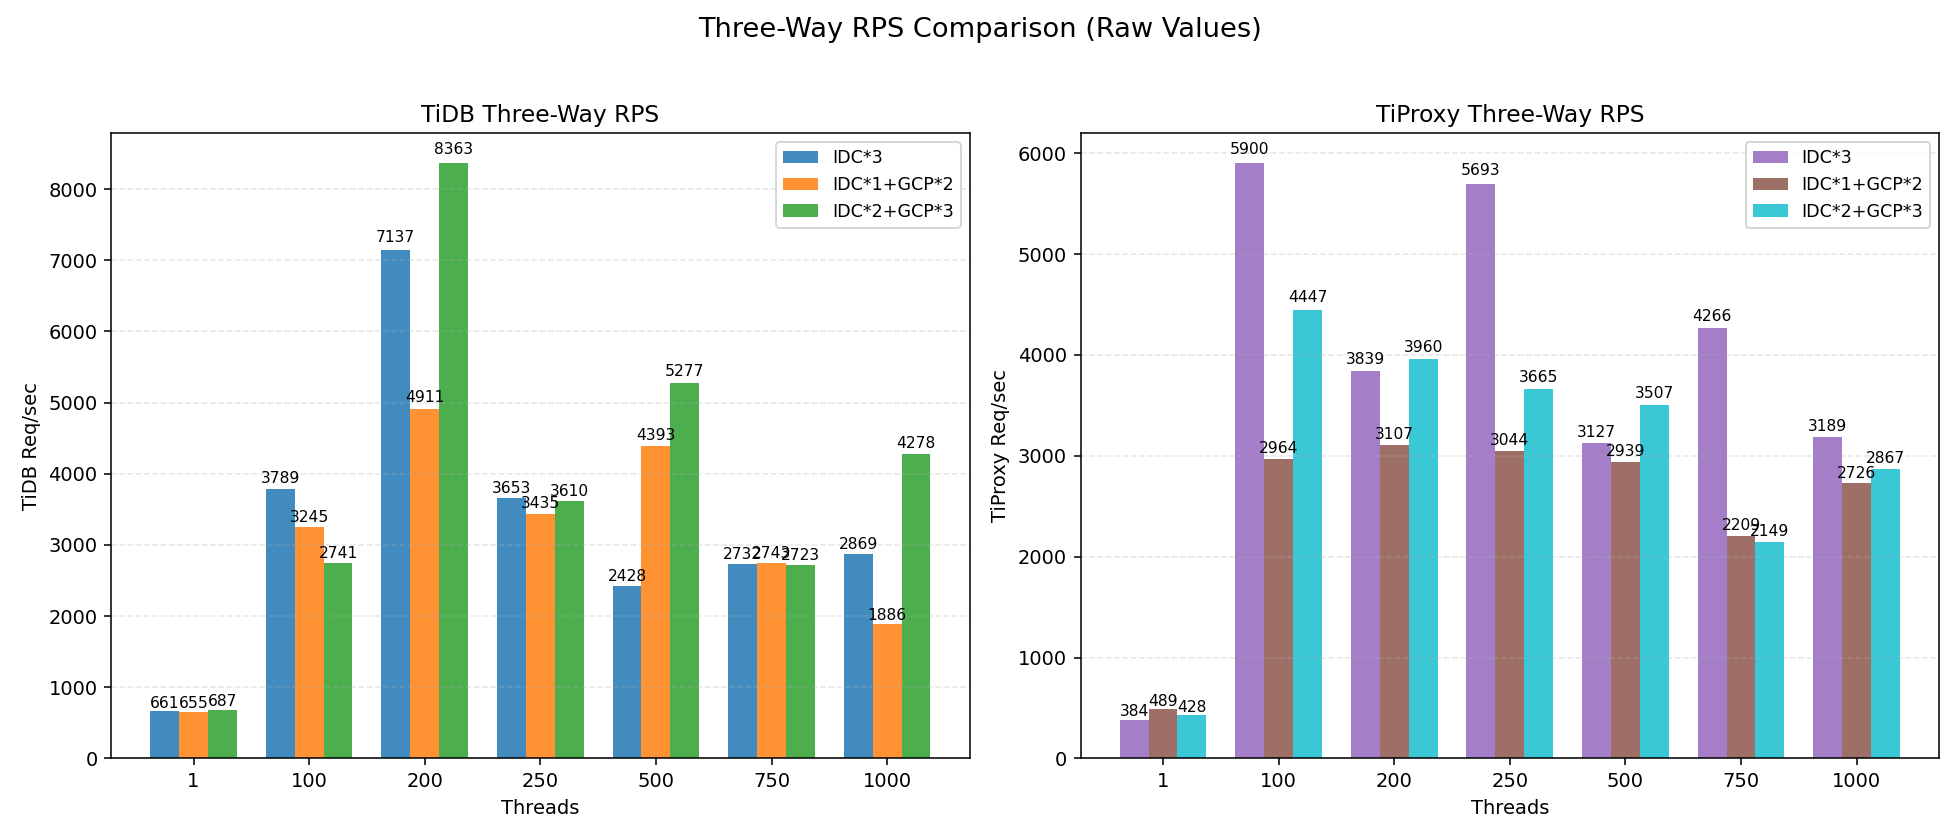
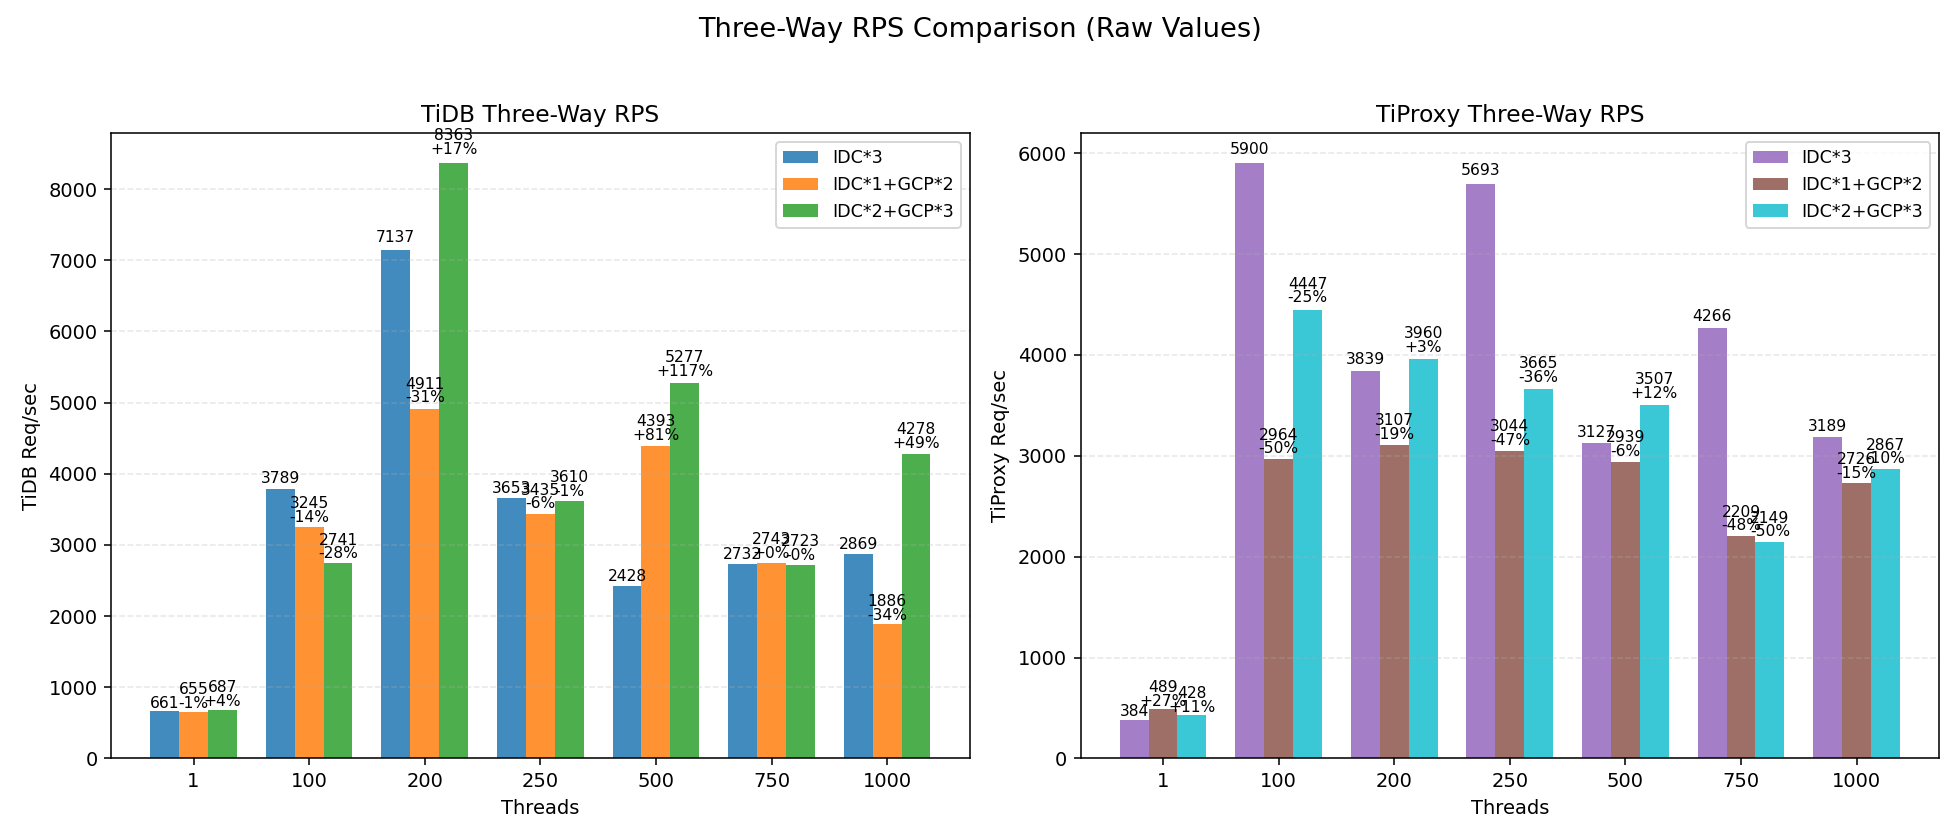
update

diff --git a/tidb/#5-1_#7-5_#10-5_#5-2_#7-6_#10-6_scale_compare.py b/tidb/#5-1_#7-5_#10-5_#5-2_#7-6_#10-6_scale_compare.py
@@ -19,6 +19,7 @@ Data source: values copied directly from individual dataset scripts to maintain 
 from __future__ import annotations
 
 from typing import Dict, List
+import argparse
 
 THREADS = [1, 100, 200, 250, 500, 750, 1000]
 
@@ -57,7 +58,11 @@ def _peak(rps_map: Dict[str, Dict[int, float]]):
     return info
 
 
-def print_summary():
+def pct(new: float, base: float) -> float:
+    return (new / base - 1.0) * 100.0 if base else 0.0
+
+
+def print_summary(show_percent: bool):
     print("Three-way RPS comparison (raw values)")
     print("Threads: " + ", ".join(str(t) for t in THREADS))
 
@@ -100,13 +105,44 @@ def print_summary():
         tip_vals = [TIPROXY_RPS[s][t] for s in SCENARIO_ORDER]
         print(f"  Threads {t:>4}: TiDB max-min Δ={max(tidb_vals)-min(tidb_vals):.2f}; TiProxy max-min Δ={max(tip_vals)-min(tip_vals):.2f}")
 
+    if show_percent:
+        def delta_table(rps_map: Dict[str, Dict[int, float]], title: str):
+            base_label = "IDC*3"
+            base_series = rps_map[base_label]
+            other_labels = [s for s in SCENARIO_ORDER if s != base_label]
+            print(f"\n[{title}] Δ% vs {base_label} (per thread)")
+            header = ["Threads", f"{base_label} RPS"] + [f"{lbl} Δ%" for lbl in other_labels]
+            col_w = [len(h) for h in header]
+            rows = []
+            for t in THREADS:
+                base_v = base_series[t]
+                row = [str(t), f"{base_v:.2f}"]
+                for lbl in other_labels:
+                    dv = pct(rps_map[lbl][t], base_v)
+                    row.append(f"{dv:+.1f}%")
+                rows.append(row)
+                for i, cell in enumerate(row):
+                    if len(cell) > col_w[i]:
+                        col_w[i] = len(cell)
+            def fmt(r):
+                return " | ".join(r[i].rjust(col_w[i]) for i in range(len(r)))
+            print(fmt(header))
+            print("-+-".join('-'*w for w in col_w))
+            for r in rows:
+                print(fmt(r))
+        delta_table(TIDB_RPS, "TiDB")
+        delta_table(TIPROXY_RPS, "TiProxy")
+
     print("\nNotes:")
-    print(" - TiDB shows strong peak at 200 threads in 'IDC*2+GCP*3' (8362.52) exceeding other scenarios' 200T values.")
-    print(" - TiProxy peak positions differ: 'IDC*3' peaks high at 100T (5899.92) while mixed scenarios don't surpass their 100/200T ranges.")
-    print(" - Raw RPS only displayed to align with user preference (no percentage annotations).")
+    print(" - TiDB strong peak at 200T in 'IDC*2+GCP*3' (8362.52) vs 'IDC*3' 200T 7137.34.")
+    print(" - TiProxy peak: 'IDC*3' 100T 5899.92; mixed scenarios do not surpass local peak across threads.")
+    if show_percent:
+        print(" - Δ% tables show per-thread relative gap; positives = higher than baseline, negatives = lower.")
+    else:
+        print(" - Percent difference tables hidden (enable with --show-percent).")
 
 
-def make_plot():  # pragma: no cover
+def make_plot(annot_percent: bool):  # pragma: no cover
     try:
         import matplotlib.pyplot as plt
         import numpy as np
@@ -120,14 +156,23 @@ def make_plot():  # pragma: no cover
     colors_tip = ["#9467bd", "#8c564b", "#17becf"]
     fig, axes = plt.subplots(1, 2, figsize=(14, 6))
 
+    # Baselines for percent annotation
+    tidb_base = [TIDB_RPS['IDC*3'][t] for t in THREADS]
+    tip_base = [TIPROXY_RPS['IDC*3'][t] for t in THREADS]
+
     # TiDB
     ax = axes[0]
     for i, scen in enumerate(SCENARIO_ORDER):
         series = [TIDB_RPS[scen][t] for t in THREADS]
         pos = x + (i - 1) * width
         bars = ax.bar(pos, series, width, label=scen, color=colors_tidb[i], alpha=0.85)
-        for b, val in zip(bars, series):
-            ax.text(b.get_x()+b.get_width()/2, b.get_height()*1.01, f"{val:.0f}", ha='center', va='bottom', fontsize=8)
+        for idx, (b, val) in enumerate(zip(bars, series)):
+            label = f"{val:.0f}"
+            if annot_percent and scen != 'IDC*3':
+                base_v = tidb_base[idx]
+                delta = (val / base_v - 1.0) * 100 if base_v else 0.0
+                label += f"\n{delta:+.0f}%"
+            ax.text(b.get_x()+b.get_width()/2, b.get_height()*1.01, label, ha='center', va='bottom', fontsize=8, linespacing=0.9)
     ax.set_xticks(x)
     ax.set_xticklabels([str(t) for t in THREADS])
     ax.set_xlabel("Threads")
@@ -142,8 +187,13 @@ def make_plot():  # pragma: no cover
         series = [TIPROXY_RPS[scen][t] for t in THREADS]
         pos = x + (i - 1) * width
         bars = ax.bar(pos, series, width, label=scen, color=colors_tip[i], alpha=0.85)
-        for b, val in zip(bars, series):
-            ax.text(b.get_x()+b.get_width()/2, b.get_height()*1.01, f"{val:.0f}", ha='center', va='bottom', fontsize=8)
+        for idx, (b, val) in enumerate(zip(bars, series)):
+            label = f"{val:.0f}"
+            if annot_percent and scen != 'IDC*3':
+                base_v = tip_base[idx]
+                delta = (val / base_v - 1.0) * 100 if base_v else 0.0
+                label += f"\n{delta:+.0f}%"
+            ax.text(b.get_x()+b.get_width()/2, b.get_height()*1.01, label, ha='center', va='bottom', fontsize=8, linespacing=0.9)
     ax.set_xticks(x)
     ax.set_xticklabels([str(t) for t in THREADS])
     ax.set_xlabel("Threads")
@@ -161,8 +211,12 @@ def make_plot():  # pragma: no cover
 
 
 def main():
-    print_summary()
-    make_plot()
+    parser = argparse.ArgumentParser(description="Three-way RPS comparison")
+    parser.add_argument("--show-percent", action="store_true", help="Print per-thread percentage deltas vs IDC*3 baseline")
+    parser.add_argument("--annot-percent", action="store_true", help="Annotate bars with Δ% vs IDC*3 baseline (second line, non-baseline scenarios)")
+    args = parser.parse_args()
+    print_summary(show_percent=args.show_percent)
+    make_plot(annot_percent=args.annot_percent)
 
 
 if __name__ == "__main__":
